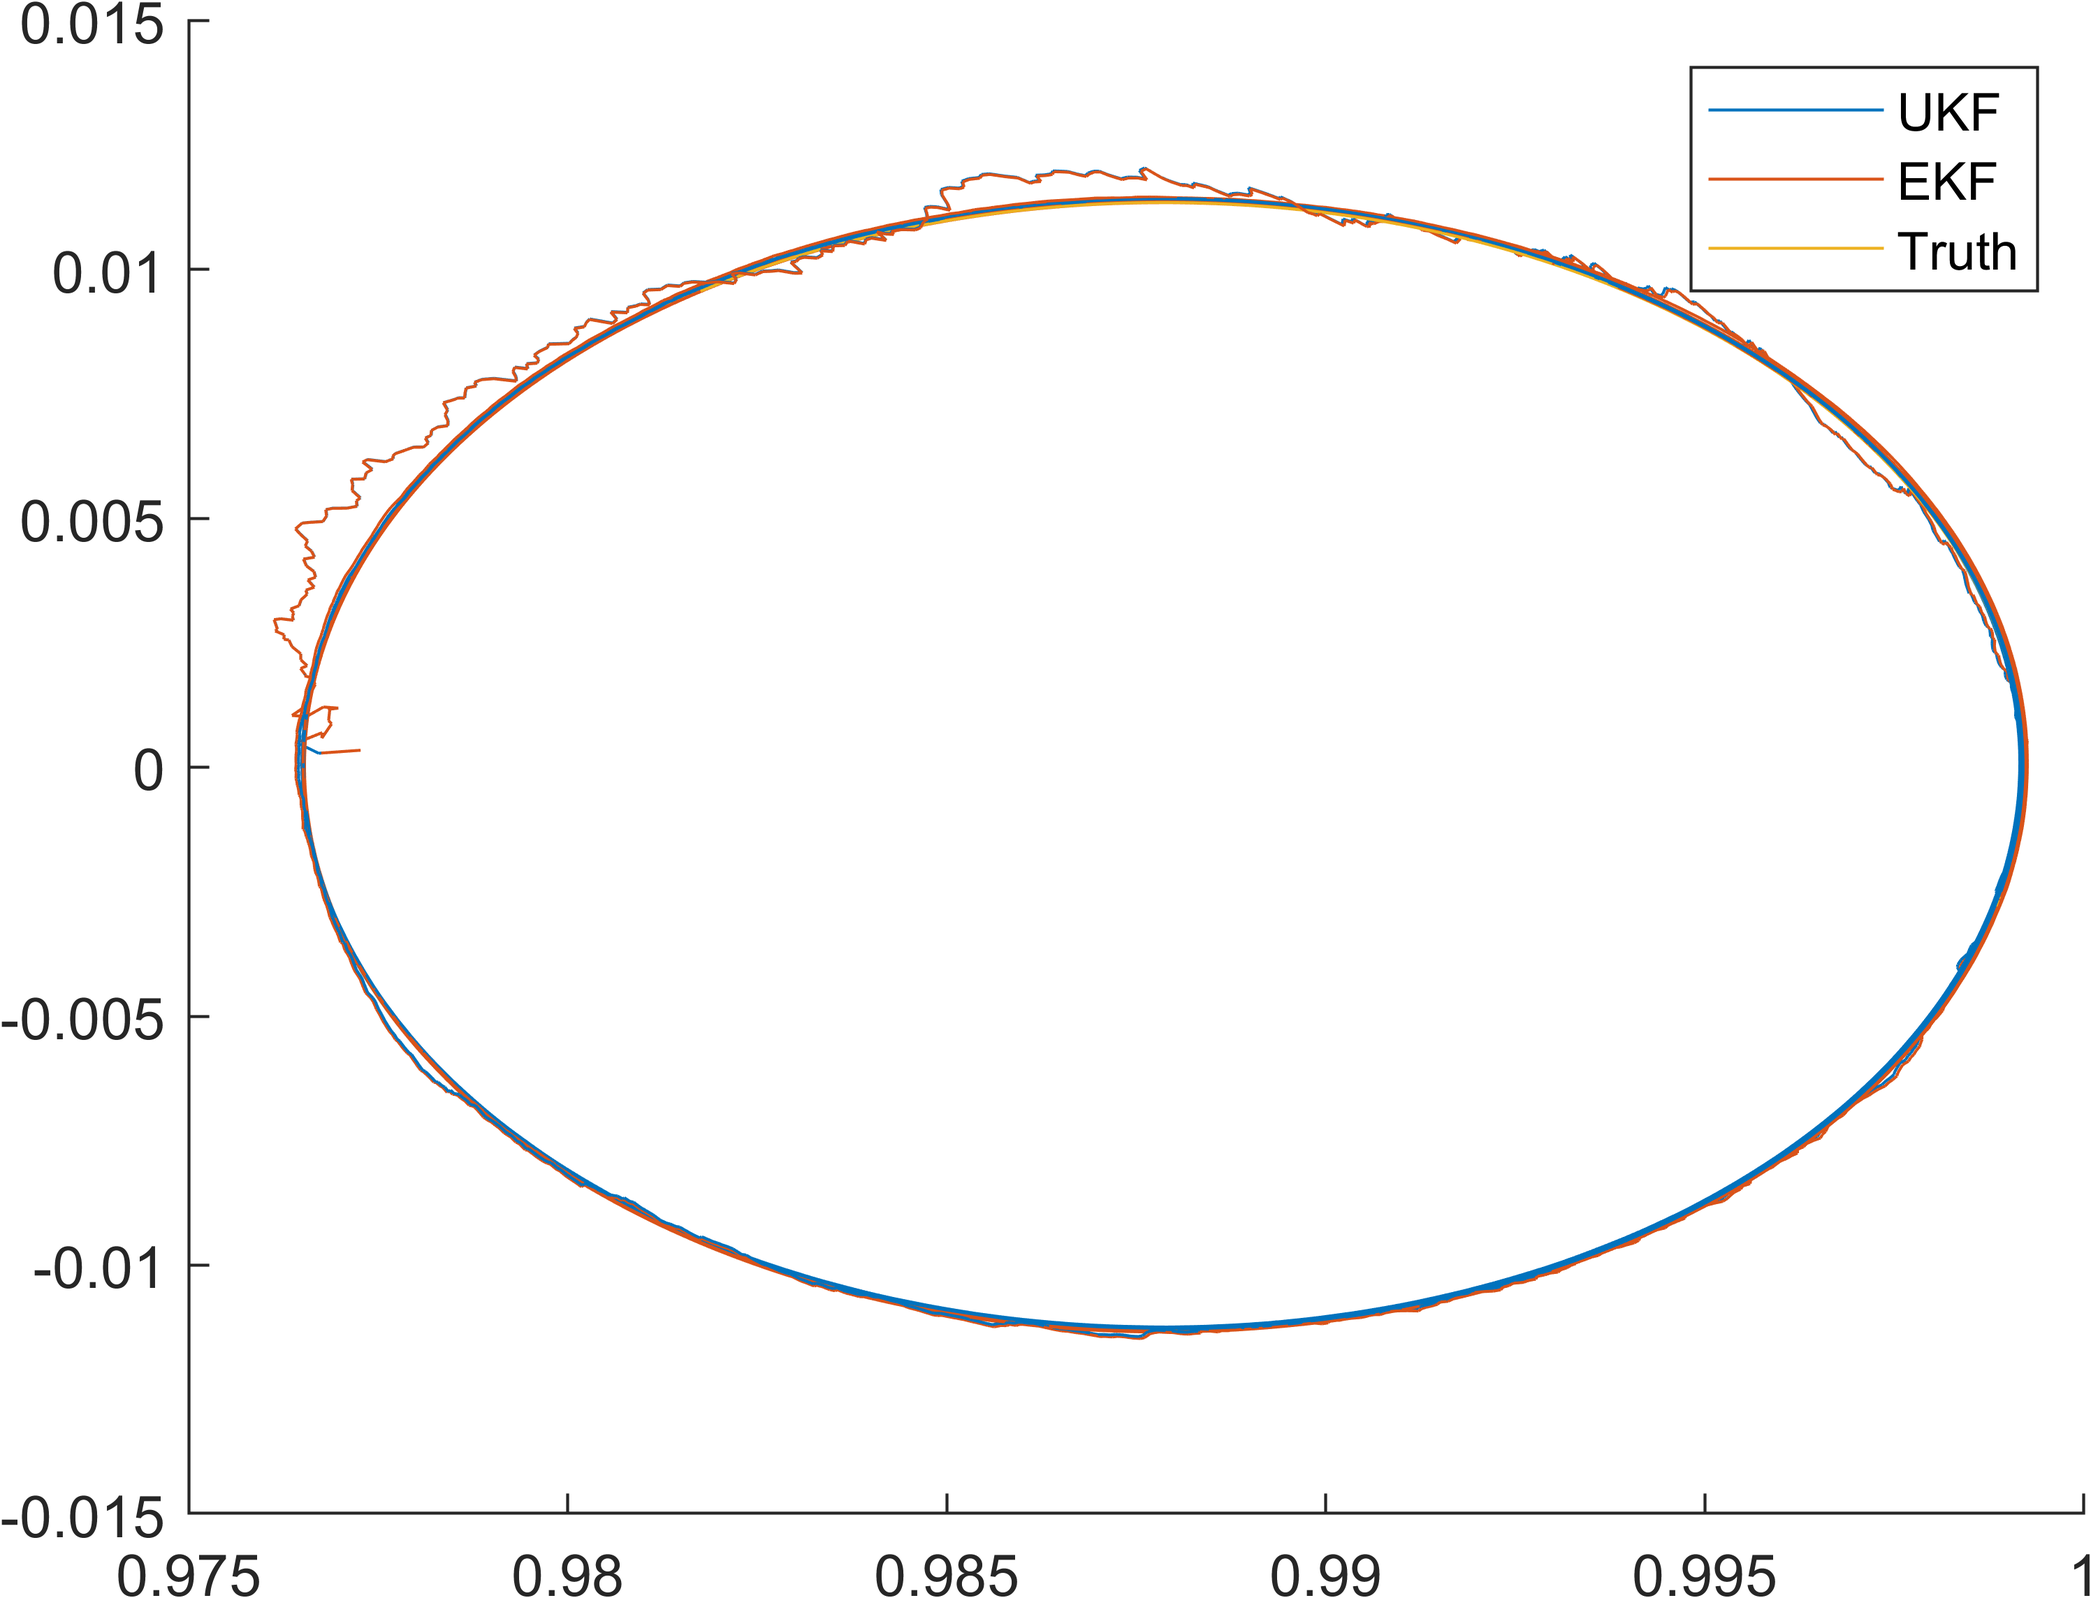
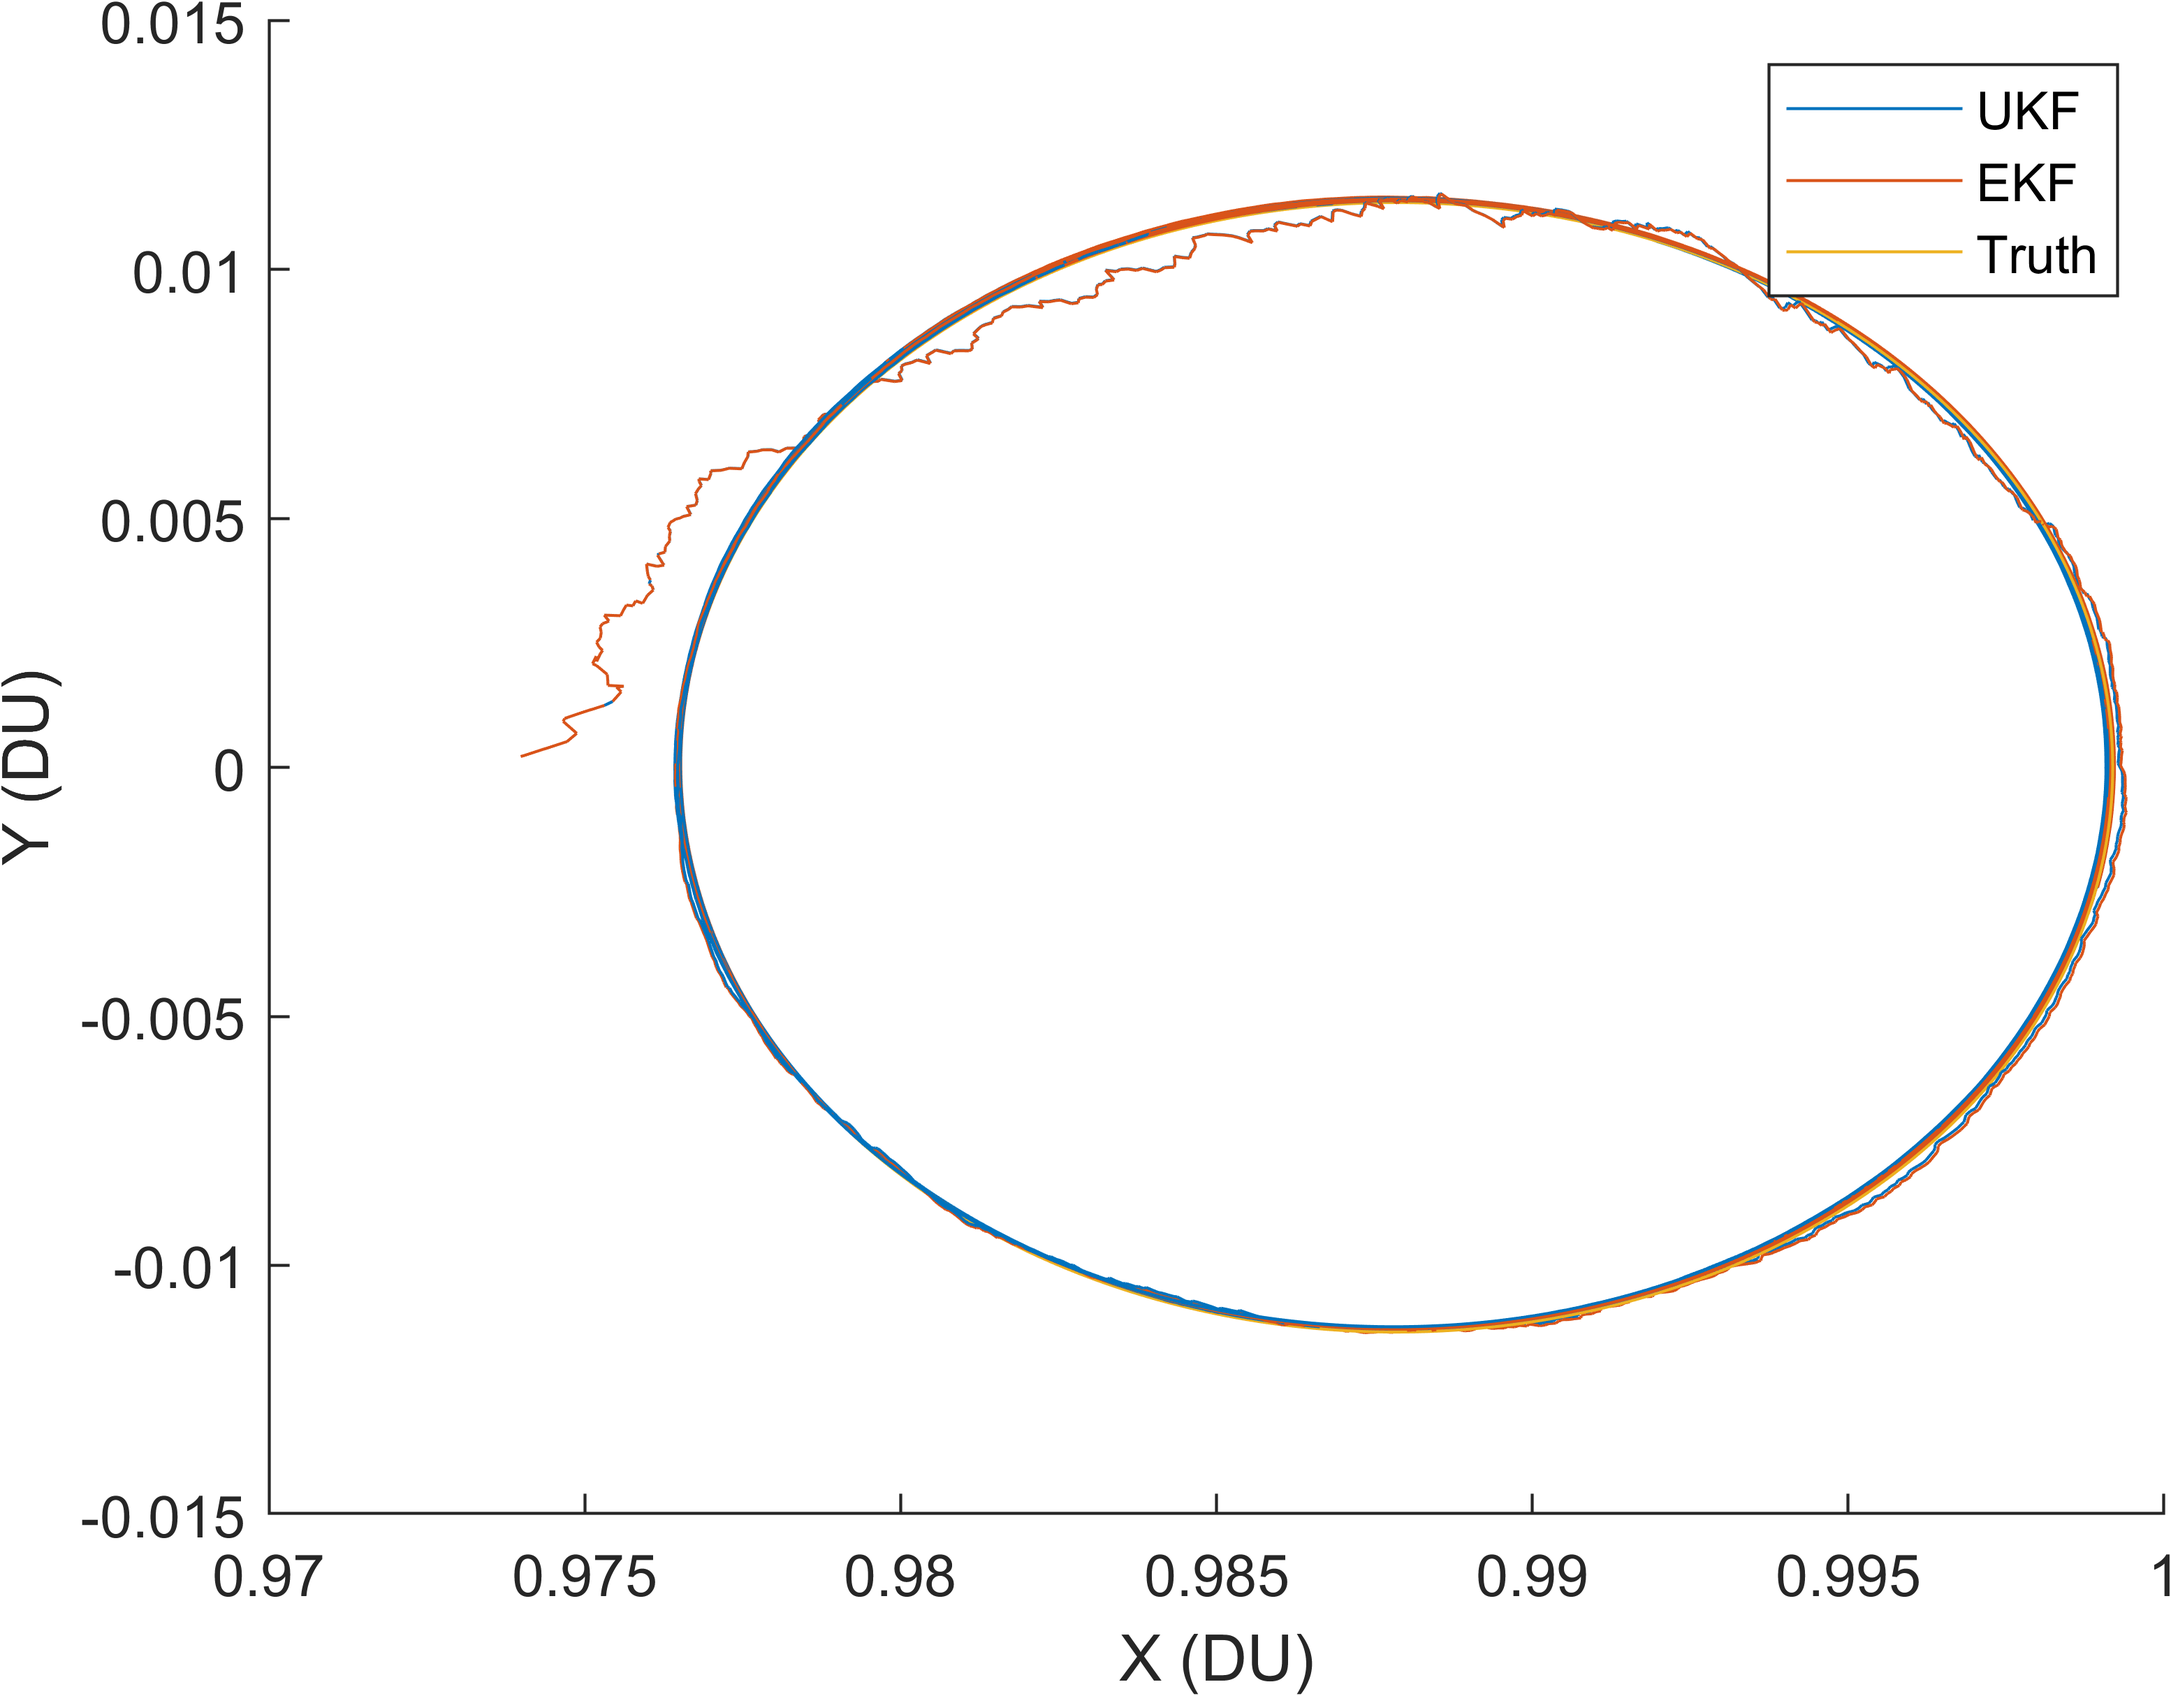
final commit b4 submission

diff --git a/main_extras.m b/main_extras.m
@@ -43,7 +43,7 @@ for i=1:m-1
     ym(:,i+1) = range_angle_measurement(X(:,i+1), X_obs(:,i+1), t(i), R, mu);
 end
 
-figure
+f1 = figure;
 hold on
 l1 = plot3(X(1,:), X(2,:), X(3,:));
 plot3(x0_tgt(1), x0_tgt(2), x0_tgt(3), 'xk')
@@ -53,9 +53,10 @@ l3 = plot3(x0_obs(1), x0_obs(2), x0_obs(3), 'xk');
 Yy = 1738/DU*Yy; Zz = 1738/DU*Zz;
 surf(Xx,Yy,Zz); axis equal
 l4 = plot3(1.0-mu, 0.0, 0.0, '.k');
-legend([l1, l2, l3, l4], ["Target", "Observer", "Initial Pos.", "Moon"])
+legend([l1, l2, l3, l4], ["Target", "Observer", "Initial Pos.", "Moon"], 'Location', 'eastoutside')
 xlabel("X (DU)"); ylabel("Y (DU)"); zlabel("Z (DU)")
 grid on
+view(-45,30)
 hold off
 
 
@@ -83,7 +84,7 @@ for i=1:m-1
     ym(:,i+1) = range_angle_measurement(X(:,i+1), X_obs(:,i+1), t(i), R, mu);
 end
 
-figure
+f2 = figure;
 hold on
 l1 = plot3(X(1,:), X(2,:), X(3,:));
 plot3(x0_tgt(1), x0_tgt(2), x0_tgt(3), 'xk')
@@ -93,7 +94,12 @@ l3 = plot3(x0_obs(1), x0_obs(2), x0_obs(3), 'xk');
 Yy = 1738/DU*Yy; Zz = 1738/DU*Zz;
 surf(Xx,Yy,Zz); axis equal
 l4 = plot3(1.0-mu, 0.0, 0.0, '.k');
-legend([l1, l2, l3, l4], ["Target", "Observer", "Initial Pos.", "Moon"])
+legend([l1, l2, l3, l4], ["Target", "Observer", "Initial Pos.", "Moon"], 'Location', 'eastoutside')
 xlabel("X (DU)"); ylabel("Y (DU)"); zlabel("Z (DU)")
 grid on
+view(-45,30)
 hold off
+
+
+exportgraphics(f1, "plots/case_1_traj.png", 'Resolution',600)
+exportgraphics(f2, "plots/case_2_traj.png", 'Resolution', 600)

diff --git a/main_case2_ekf_ukf.m b/main_case2_ekf_ukf.m
@@ -7,7 +7,6 @@ ntrials = 100;
 % setting to true will overwrite plots/
 save_figs = false;
 
-
 % Pick Noise Level
 noiselevel = "high"; % "low" or "high"
 if noiselevel == "high"
@@ -257,6 +256,7 @@ plot3(Xhat(1,:), Xhat(2,:), Xhat(3,:))
 plot3(Xhat_ekf(1,:), Xhat_ekf(2,:), Xhat_ekf(3,:))
 plot3(X(1,:), X(2,:), X(3,:))
 legend('UKF', 'EKF', 'Truth')
+xlabel("X (DU)"); ylabel("Y (DU)"); zlabel("Z (DU)")
 hold off
 
 % plot measurement and occlusions (also last trial only, but this one is

diff --git a/main_case2_gmekf.m b/main_case2_gmekf.m
@@ -10,7 +10,7 @@ clear; close all
 ntrials = 100;
 
 % setting to true will overwrite plots/
-save_figs = high;
+save_figs = false;
 
 % Pick Noise Level
 noiselevel = "high"; % "low" or "high"
@@ -275,6 +275,7 @@ f3 = figure;
 hold on
 plot3(Xhat_gmekf(1,:), Xhat_gmekf(2,:), Xhat_gmekf(3,:))
 plot3(X(1,:), X(2,:), X(3,:))
+xlabel("X (DU)"); ylabel("Y (DU)"); zlabel("Z (DU)")
 legend('GMEKF', 'Truth')
 hold off
 

diff --git a/main_case1_ekf_ukf.m b/main_case1_ekf_ukf.m
@@ -63,7 +63,7 @@ for trial=1:ntrials
     
     % initial conditions
     % Ukf cov
-    pcov = diag([1e-6, 1e-6, 1e-6, 1e-2, 1e-2, 1e-2]);
+    pcov = diag([1e-6, 1e-6, 1e-6, 1e-3, 1e-3, 1e-3]);
     P = zeros(6,m); P(:,1) = diag(pcov); % cov storage
     
     % ekf cov

diff --git a/main_case1_gmekf.m b/main_case1_gmekf.m
@@ -12,7 +12,6 @@ ntrials = 100;
 % setting to true will overwrite plots/
 save_figs = false;
 
-
 % Pick Noise Level
 noiselevel = "high"; % "low" or "high"
 if noiselevel == "high"

diff --git a/README.md b/README.md
@@ -1,8 +1,7 @@
 Downloading locally should allow you to run this without any problems. Contents are described below
 
 # Main Directory
-Scripts beginning with `main_` are the scripts where the simulations are. The UKF and EKF are sims combined. GMEKF is separate (and not done yet). They are also separated by cases. Use these to generate the figures shown in the report.
-  
+Scripts beginning with `main_` are the scripts where the simulations are. The UKF and EKF are sims combined. GMEKF is separate (and not done yet). They are also separated by cases. Use these to generate the figures shown in the report. `main_extras` specifically just generates some extra figures, namely some trajectory plots.
   Some options set at top of these scripts: 
   
     `ntrials`: how many trials to run.
